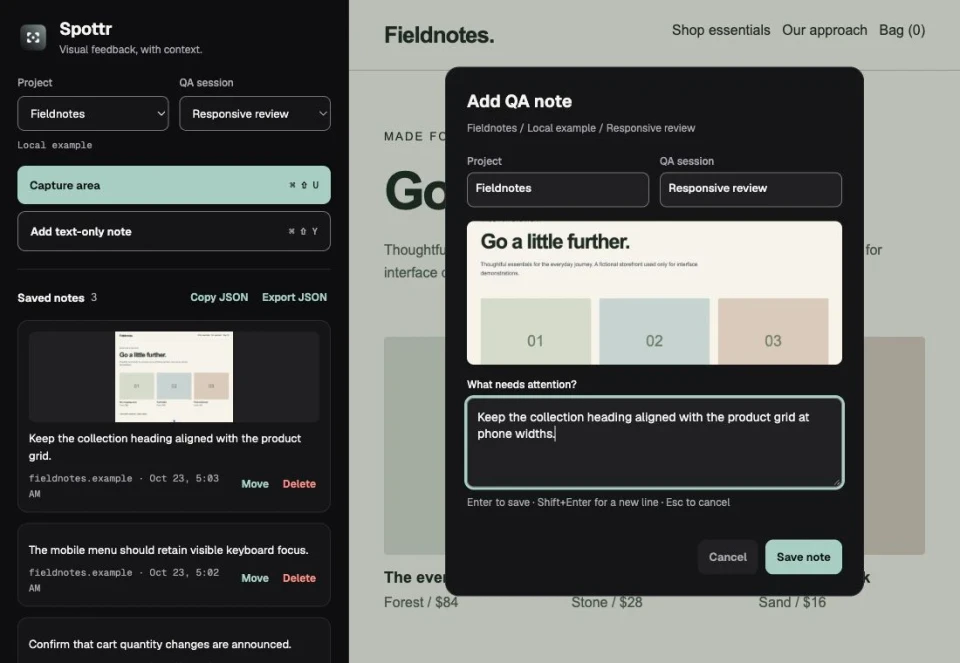
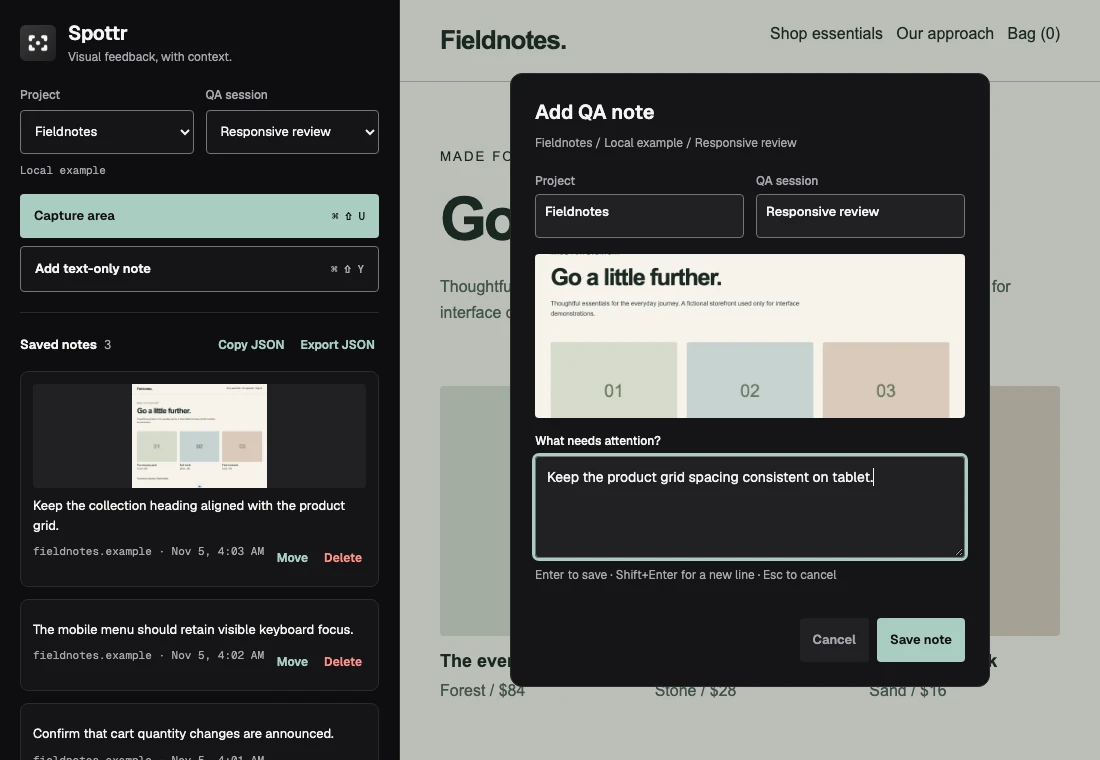
Refresh actual-interface snapshots and document visual review

diff --git a/docs/app-stylr-v1.4.1.md b/docs/app-stylr-v1.4.1.md
@@ -7,3 +7,11 @@ The generated adapter owns semantic colors, Geist typography, 4px control/button
 Run `npm ci`, `npm run styles`, `npm test`, and the documented package command. `npm run styles:check` verifies committed generated assets against the installed immutable package. Downloaded extension packages do not require Node or npm dependencies.
 
 Fresh rendered review, capture provenance and installed-browser coverage are recorded separately. Automated tests and an isolated browser API fixture do not establish installed Chrome permissions, service-worker lifecycle or release acceptance. Follow [the release guide](releasing.md) before publication.
+
+## Local candidate evidence, November 5, 2026
+
+The final source suite passed 51 tests with the generated-source check. Local version 1.1.0 packages passed ZIP integrity checks and include only their runtime allowlists. The candidate is not published.
+
+Rendered review covered the popup, screenshot viewer/editor, welcome/privacy/support, desktop and 390px settings, and the injected composer at normal and narrow sizes. Typing held dialog geometry stable, saving updated the fictional workspace, and Escape closed the composer. The isolated adapter uses fictional data and does not establish installed-browser or native permission acceptance. Product-scoped automated accessibility checks reported no WCAG A/AA violations in the sampled rendered states.
+
+The [fresh still](images/app-preview.webp), [animation](images/app-preview.gif) and [provenance](images/app-preview.provenance.json) identify the captured source revision, dimensions, hashes and coverage limits. Complete the installed-browser release guide before publication.

diff --git a/README.md b/README.md
@@ -10,7 +10,7 @@ Spottr is a free, public-source Chrome extension for developers, designers, and 
 
 <img src="docs/images/app-preview.gif" width="640" alt="Spottr adding a screenshot-backed QA note to a fictional Fieldnotes storefront review">
 
-App preview with demo data. [App overview](https://kylbutlr.com/apps/spottr). [Still image](docs/images/app-preview.webp).
+App preview of the unpublished 1.1.0 refresh candidate with demo data. [App overview](https://kylbutlr.com/apps/spottr). [Still image](docs/images/app-preview.webp). [Capture provenance](docs/images/app-preview.provenance.json).
 
 Source candidate: **1.1.0**, with the App Stylr v1.4.1 refresh. This candidate is not a published download.
 
